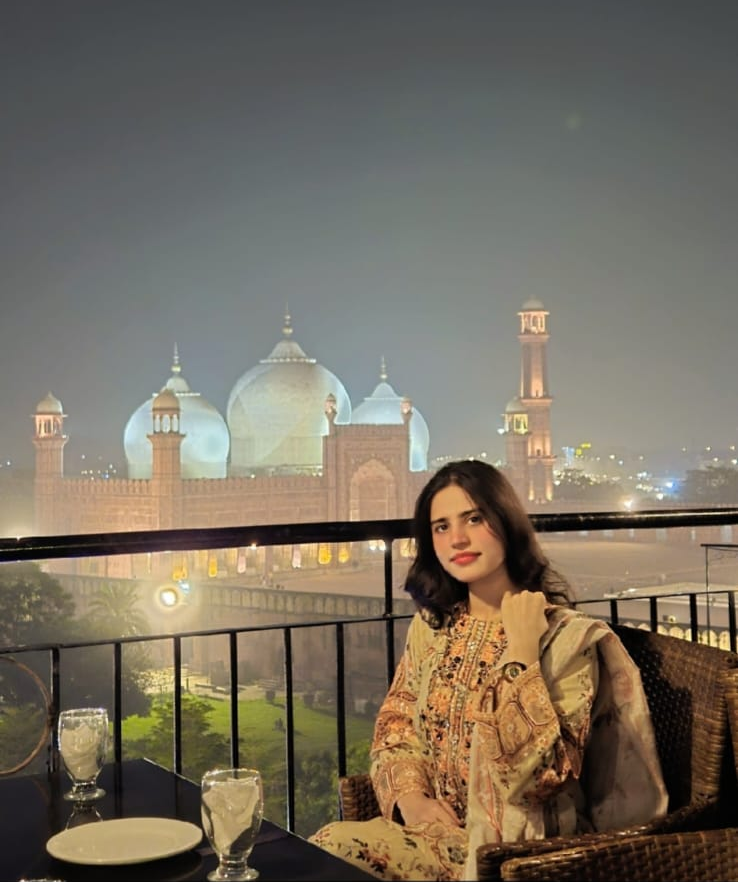
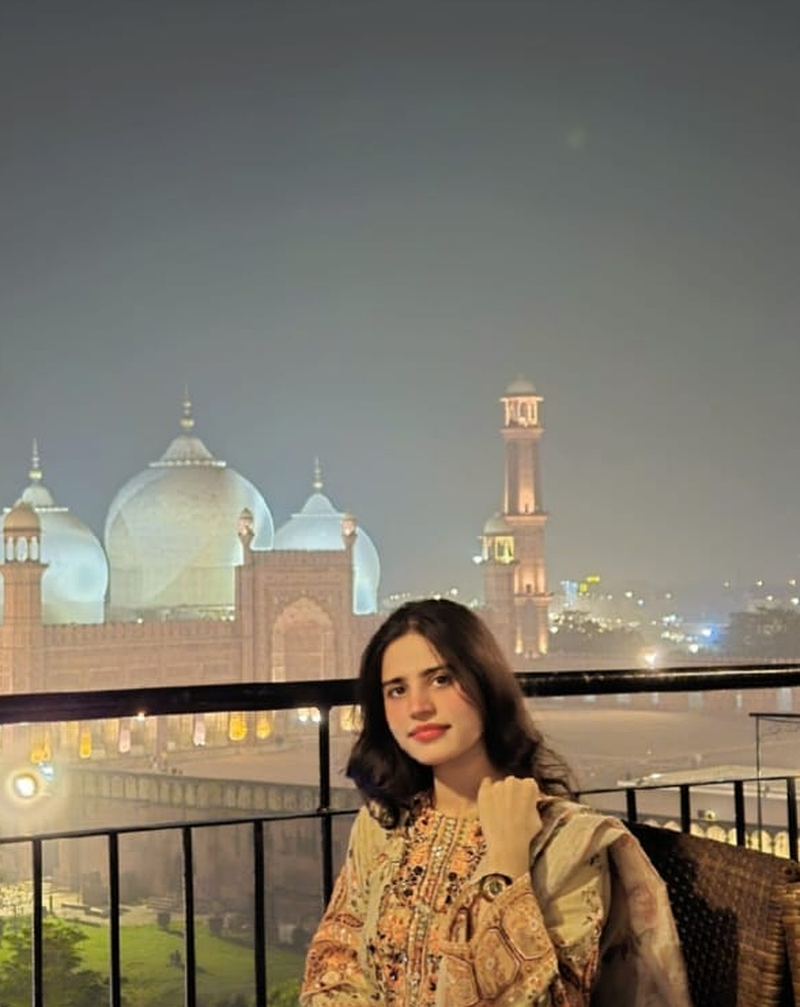
Zoom in CEO portrait to remove foreground table and update card framing

diff --git a/client/src/pages/AboutUs.jsx b/client/src/pages/AboutUs.jsx
@@ -99,7 +99,7 @@ export default function AboutUs({ onOpenSchedule }) {
               <div style={{
                 width: '100%',
                 maxWidth: '430px',
-                aspectRatio: '738 / 882',
+                aspectRatio: '800 / 1007',
                 borderRadius: '20px',
                 border: '2px solid rgba(212, 160, 23, 0.45)',
                 boxShadow: '0 20px 45px rgba(15, 23, 42, 0.16)',
